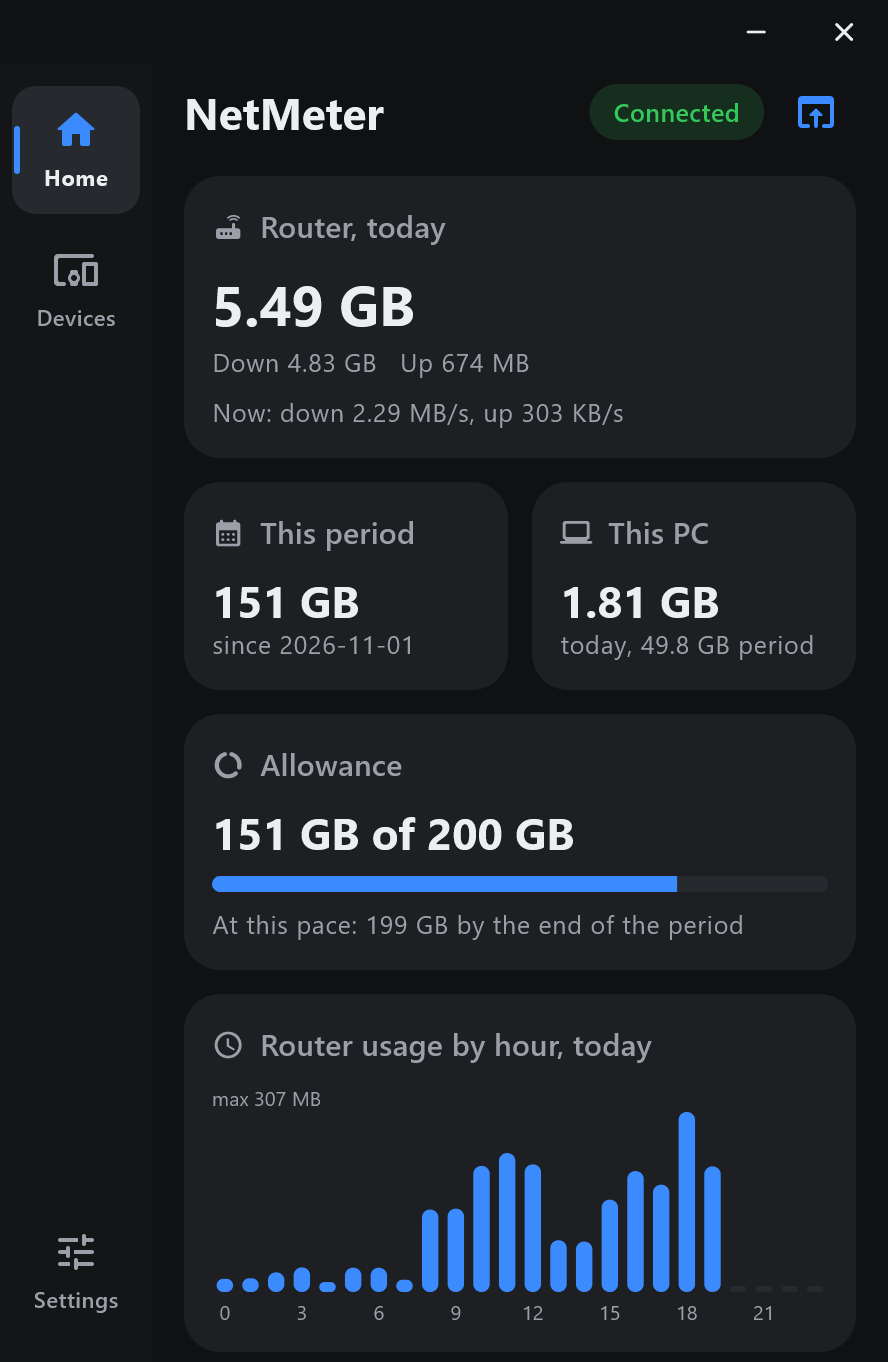
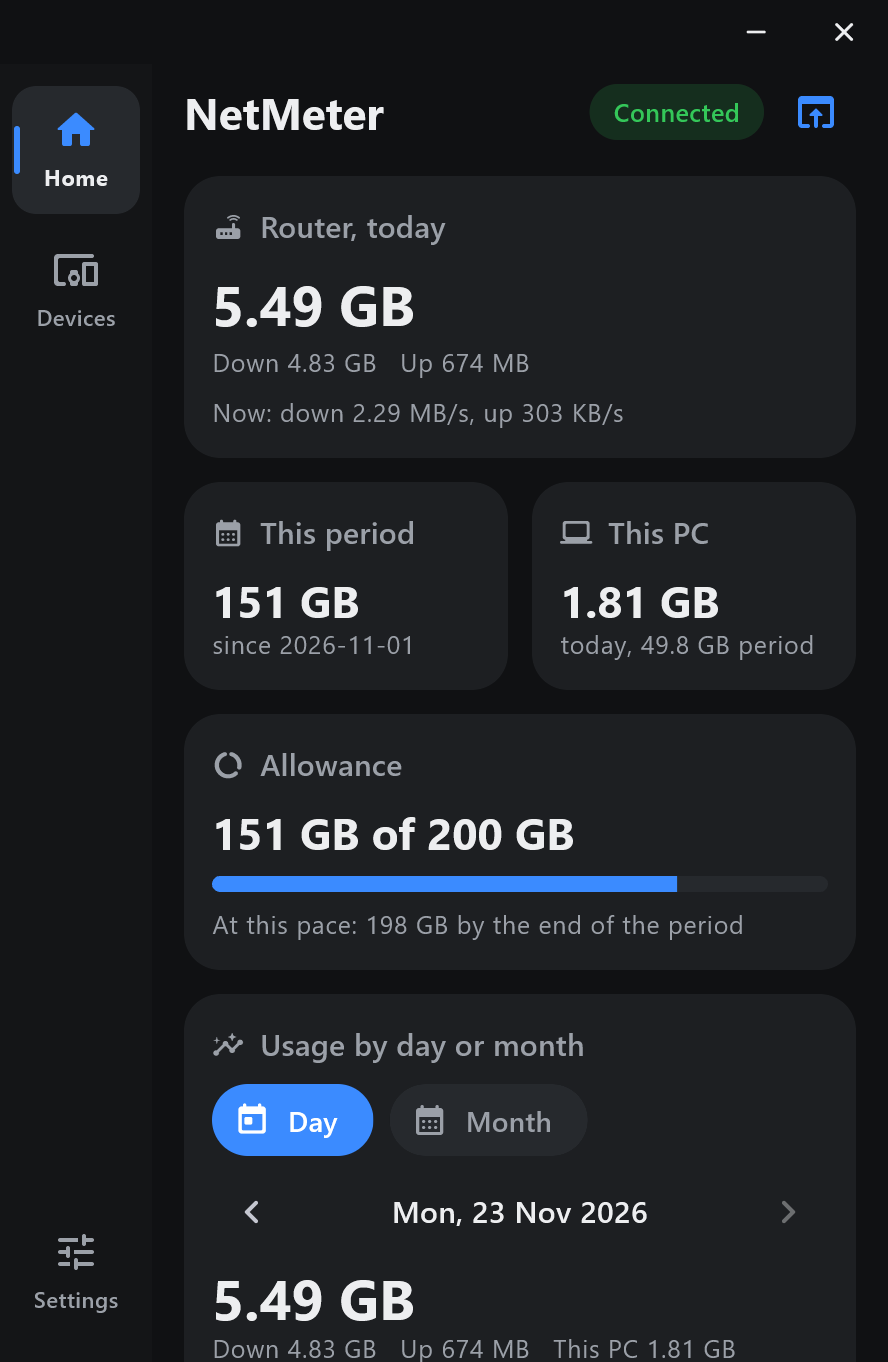
NetMeter 0.3.1: day and month usage explorer
- Pick a day or a month (billing period) with arrows: totals, hourly or daily bars,
  most active devices; in the app and in the browser dashboard (/api/usage)
- Remove the fixed "by hour, today" card in favour of the explorer

Changed region(s): [[0.2128, 0.7401, 0.8209, 1.0]]

diff --git a/lib/ui/usage_explorer.dart b/lib/ui/usage_explorer.dart
@@ -1,0 +1,100 @@
+import 'package:flutter/material.dart';
+
+import '../core/engine.dart';
+import '../core/engine_tools.dart';
+import 'theme.dart';
+import 'widgets.dart';
+
+/// Pick a day or a month (billing period) and see its usage: totals, a chart and the most active devices.
+class UsageExplorer extends StatefulWidget {
+  const UsageExplorer({super.key, required this.engine});
+  final Engine engine;
+
+  @override
+  State<UsageExplorer> createState() => _UsageExplorerState();
+}
+
+class _UsageExplorerState extends State<UsageExplorer> {
+  bool _month = false;
+  int _offset = 0; // 0 = today or this period, -1 = the one before, ...
+
+  @override
+  Widget build(BuildContext context) {
+    final text = Theme.of(context).textTheme;
+    final v = widget.engine.usageView(month: _month, offset: _offset);
+    final bars = (v['bars'] as List).cast<Map<String, dynamic>>();
+    final top = (v['top'] as List).cast<Map<String, dynamic>>();
+    final topIsBytes = v['topIsBytes'] as bool;
+    final maxTop = top.isEmpty ? 1 : (top.first['value'] as int);
+    return InfoCard(
+      title: 'Usage by day or month',
+      icon: Icons.insights_rounded,
+      child: Column(crossAxisAlignment: CrossAxisAlignment.start, children: [
+        Segmented<bool>(
+          value: _month,
+          onChanged: (m) => setState(() {
+            _month = m;
+            _offset = 0;
+          }),
+          options: const [(false, 'Day', Icons.today_rounded), (true, 'Month', Icons.calendar_month_rounded)],
+        ),
+        const SizedBox(height: 8),
+        Row(children: [
+          IconButton(onPressed: v['older'] == true ? () => setState(() => _offset--) : null, icon: const Icon(Icons.chevron_left_rounded)),
+          Expanded(child: Text(v['title'] as String, textAlign: TextAlign.center, style: text.titleMedium)),
+          IconButton(onPressed: _offset < 0 ? () => setState(() => _offset++) : null, icon: const Icon(Icons.chevron_right_rounded)),
+        ]),
+        const SizedBox(height: 4),
+        Text(formatBytes((v['down'] as int) + (v['up'] as int)), style: text.headlineMedium),
+        Text('Down ${formatBytes(v['down'] as int)}   Up ${formatBytes(v['up'] as int)}   This PC ${formatBytes(v['pc'] as int)}', style: text.bodySmall),
+        const SizedBox(height: 12),
+        SizedBox(height: 120, child: CustomPaint(painter: _Bars(bars), size: Size.infinite)),
+        if (top.isNotEmpty) ...[
+          const SizedBox(height: 12),
+          Text(topIsBytes ? 'Heaviest devices' : 'Most active devices (connection time)', style: text.bodySmall),
+          const SizedBox(height: 4),
+          for (final t in top)
+            Padding(
+              padding: const EdgeInsets.symmetric(vertical: 3),
+              child: Row(children: [
+                SizedBox(width: 110, child: Text(t['name'] as String, style: text.bodyMedium, maxLines: 1, overflow: TextOverflow.ellipsis)),
+                Expanded(child: MeterBar(fraction: (t['value'] as int) / maxTop)),
+                SizedBox(width: 64, child: Text(topIsBytes ? formatBytes(t['value'] as int) : formatSpan(t['value'] as int), textAlign: TextAlign.end, style: text.bodySmall)),
+              ]),
+            ),
+        ],
+      ]),
+    );
+  }
+}
+
+class _Bars extends CustomPainter {
+  _Bars(this.bars);
+  final List<Map<String, dynamic>> bars;
+
+  @override
+  void paint(Canvas canvas, Size size) {
+    if (bars.isEmpty) return;
+    final maxV = bars.fold<int>(1, (m, e) => (e['bytes'] as int) > m ? e['bytes'] as int : m);
+    const labelH = 16.0;
+    final chartH = size.height - labelH;
+    final slot = size.width / bars.length;
+    final bar = Paint()..color = Palette.accent;
+    final dim = Paint()..color = Palette.cardHigh;
+    final every = bars.length > 24 ? 5 : 3;
+    for (var i = 0; i < bars.length; i++) {
+      final v = bars[i]['bytes'] as int;
+      final h = v == 0 ? 3.0 : (v / maxV * (chartH - 14)).clamp(3.0, chartH);
+      canvas.drawRRect(RRect.fromRectAndRadius(Rect.fromLTWH(i * slot + slot * 0.15, chartH - h, slot * 0.7, h), const Radius.circular(3)), v == 0 ? dim : bar);
+      if (i % every == 0) {
+        final tp = TextPainter(text: TextSpan(text: bars[i]['label'] as String, style: const TextStyle(color: Palette.muted, fontSize: 10)), textDirection: TextDirection.ltr)..layout();
+        tp.paint(canvas, Offset(i * slot + (slot - tp.width) / 2, chartH + 3));
+      }
+    }
+    final top = TextPainter(text: TextSpan(text: 'max ${formatBytes(maxV)}', style: const TextStyle(color: Palette.muted, fontSize: 10)), textDirection: TextDirection.ltr)..layout();
+    top.paint(canvas, Offset.zero);
+  }
+
+  @override
+  bool shouldRepaint(covariant _Bars old) => true;
+}

diff --git a/assets/dashboard.html b/assets/dashboard.html
@@ -37,6 +37,8 @@ button{cursor:pointer;background:var(--accent);color:#fff;font-weight:600;border
 .dot{display:inline-block;width:9px;height:9px;border-radius:50%;background:var(--muted);margin-right:6px}
 .dot.on{background:var(--ok)}
 .note{color:var(--muted);font-size:12.5px;margin-top:10px}
+.nav{display:flex;align-items:center;gap:8px;margin-bottom:8px;flex-wrap:wrap}.nav .sp{flex:1}.nav b{min-width:150px;text-align:center}
+.seg{background:var(--high);color:var(--muted)}.seg.on{background:var(--accent);color:#fff}.arrow{background:var(--high);color:var(--text);font-size:18px;padding:2px 14px}.arrow:disabled{opacity:.35;cursor:default}
 @media (max-width:640px){.row .n{width:100px}.hide-s{display:none}}
 </style>
 </head>
@@ -49,6 +51,13 @@ button{cursor:pointer;background:var(--accent);color:#fff;font-weight:600;border
   <div class="card"><h2>This period</h2><div class="big" id="periodV">–</div><div class="sub" id="periodSub"></div></div>
   <div class="card"><h2>This PC</h2><div class="big" id="pc">–</div><div class="sub" id="pcSub"></div></div>
   <div class="card" id="quotaCard"><h2>Allowance</h2><div class="big" id="quota">–</div><div class="bar"><i id="quotaBar" style="width:0"></i></div><div class="sub" id="quotaSub"></div></div>
+</div>
+<div class="card wide" style="margin-bottom:12px">
+  <h2>Usage by day or month</h2>
+  <div class="nav"><button class="seg on" id="mDay">Day</button><button class="seg" id="mMonth">Month</button><span class="sp"></span><button class="arrow" id="prev">&lsaquo;</button><b id="uTitle"></b><button class="arrow" id="next">&rsaquo;</button></div>
+  <div class="big" id="uTotal">–</div><div class="sub" id="uSub"></div>
+  <canvas id="uBars"></canvas>
+  <div id="uTop"></div>
 </div>
 <div class="grid">
   <div class="card"><h2>Router usage by hour, today</h2><canvas id="hourly"></canvas></div>
@@ -81,7 +90,18 @@ function bars(cv,vals,labels,fmt){
     const x=i*slot+slot*.15,bw=slot*.7;g.beginPath();g.roundRect?g.roundRect(x,14+ch-bh,bw,bh,3):g.rect(x,14+ch-bh,bw,bh);g.fill();
     if(labels[i]!=null){g.fillStyle=css('--muted');g.textAlign='center';g.fillText(labels[i],x+bw/2,h-3);g.textAlign='left'}});
 }
-let state=null,editing=false;
+let state=null,editing=false,uMode='day',uOffset=0;
+async function loadUsage(){
+  const r=await fetch('/api/usage?mode='+uMode+'&offset='+uOffset,{cache:'no-store'});const u=await r.json();
+  $('uTitle').textContent=u.title;$('prev').disabled=!u.older;$('next').disabled=uOffset>=0;
+  $('uTotal').textContent=bytes(u.down+u.up);$('uSub').textContent='Down '+bytes(u.down)+'   Up '+bytes(u.up)+'   This PC '+bytes(u.pc);
+  const lab=u.bars.map((b,i)=>i%(u.bars.length>24?5:3)==0?b.label:null);bars($('uBars'),u.bars.map(b=>b.bytes),lab,bytes);
+  const mx=Math.max(1,...u.top.map(t=>t.value));
+  $('uTop').innerHTML=u.top.map(t=>'<div class="row"><span class="n">'+esc(t.name)+'</span><span class="b"><i style="width:'+(t.value/mx*100)+'%"></i></span><span class="v">'+(u.topIsBytes?bytes(t.value):span(t.value))+'</span></div>').join('');
+}
+function setMode(m){uMode=m;uOffset=0;$('mDay').classList.toggle('on',m=='day');$('mMonth').classList.toggle('on',m=='month');loadUsage()}
+$('mDay').onclick=()=>setMode('day');$('mMonth').onclick=()=>setMode('month');
+$('prev').onclick=()=>{uOffset--;loadUsage()};$('next').onclick=()=>{if(uOffset<0){uOffset++;loadUsage()}};
 function render(s){
   state=s;const st=$('status');st.textContent={connected:'Connected',connecting:'Connecting',blocked:'Paused',offline:'Router unreachable',error:'Error',setup:'Set up needed'}[s.status]||s.status;
   st.className='pill '+({connected:'ok',connecting:'warn',offline:'warn',blocked:'bad',error:'bad'}[s.status]||'warn');
@@ -124,7 +144,7 @@ $('devs').addEventListener('change',async e=>{const tr=e.target.closest('tr');if
   editing=false;render(await r.json())});
 $('export').onclick=async()=>{const r=await fetch('/api/export',{method:'POST',headers:{'X-NetMeter':'1'}});const j=await r.json();alert('CSV files saved to '+j.folder)};
 window.addEventListener('resize',()=>state&&render(state));
-load();setInterval(load,5000);
+load();loadUsage();setInterval(()=>{load();loadUsage()},5000);
 </script>
 </body>
 </html>

diff --git a/lib/core/engine_tools.dart b/lib/core/engine_tools.dart
@@ -59,6 +59,76 @@ extension EngineTools on Engine {
     return out;
   }
 
+  /// What the usage explorer shows: one day (bars per hour) or one billing period (bars per day).
+  /// [offset] 0 is today / the current period, -1 the one before, and so on.
+  Map<String, dynamic> usageView({required bool month, required int offset}) {
+    const months = ['January', 'February', 'March', 'April', 'May', 'June', 'July', 'August', 'September', 'October', 'November', 'December'];
+    const short = ['Jan', 'Feb', 'Mar', 'Apr', 'May', 'Jun', 'Jul', 'Aug', 'Sep', 'Oct', 'Nov', 'Dec'];
+    const weekdays = ['Mon', 'Tue', 'Wed', 'Thu', 'Fri', 'Sat', 'Sun'];
+    if (offset > 0) offset = 0;
+    var down = 0, up = 0, pc = 0;
+    final devSecs = <String, int>{}, devBytes = <String, int>{};
+    void addDay(DayStat d) {
+      down += d.wanRx;
+      up += d.wanTx;
+      pc += d.pcRx + d.pcTx;
+      d.dev.forEach((mac, v) {
+        devSecs[mac] = (devSecs[mac] ?? 0) + v.secs;
+        devBytes[mac] = (devBytes[mac] ?? 0) + v.rx + v.tx;
+      });
+    }
+
+    final bars = <Map<String, dynamic>>[];
+    late final String title;
+    late final DateTime from;
+    if (!month) {
+      final t = today;
+      from = DateTime(t.year, t.month, t.day + offset);
+      final d = store.days[dayKey(from)];
+      if (d != null) addDay(d);
+      title = '${weekdays[from.weekday - 1]}, ${from.day} ${short[from.month - 1]} ${from.year}';
+      for (var h = 0; h < 24; h++) {
+        bars.add({'label': '$h', 'bytes': d?.hourly[h] ?? 0});
+      }
+    } else {
+      final reset = config.resetDay;
+      final cur = periodStart;
+      DateTime startOf(int shift) {
+        final first = DateTime(cur.year, cur.month + shift, 1);
+        final last = DateTime(first.year, first.month + 1, 0).day;
+        return DateTime(first.year, first.month, reset > last ? last : reset);
+      }
+
+      from = startOf(offset);
+      final end = startOf(offset + 1);
+      for (var t = from; t.isBefore(end) && !t.isAfter(today); t = DateTime(t.year, t.month, t.day + 1)) {
+        final d = store.days[dayKey(t)];
+        if (d != null) addDay(d);
+        bars.add({'label': '${t.day}', 'bytes': d == null ? 0 : d.wanRx + d.wanTx});
+      }
+      title = reset == 1
+          ? '${months[from.month - 1]} ${from.year}'
+          : '${short[from.month - 1]} ${from.day} to ${short[end.month - 1]} ${end.subtract(const Duration(days: 1)).day}, ${end.year}';
+    }
+    final byBytes = perDeviceUsage;
+    final ranked = (byBytes ? devBytes : devSecs).entries.where((e) => e.value > 0).toList()..sort((a, b) => b.value.compareTo(a.value));
+    final fromKey = dayKey(from);
+    return {
+      'title': title,
+      'kind': month ? 'days' : 'hours',
+      'offset': offset,
+      'older': store.days.keys.any((k) => k.compareTo(fromKey) < 0),
+      'down': down,
+      'up': up,
+      'pc': pc,
+      'bars': bars,
+      'topIsBytes': byBytes,
+      'top': [
+        for (final e in ranked.take(6)) {'name': store.devices[e.key]?.display ?? e.key, 'value': e.value},
+      ],
+    };
+  }
+
   /// Router bytes for each hour of today.
   List<int> get hourlyToday => store.days[dayKey(DateTime.now())]?.hourly ?? List.filled(24, 0);
 

diff --git a/lib/ui/home_page.dart b/lib/ui/home_page.dart
@@ -4,6 +4,7 @@ import '../core/engine.dart';
 import '../core/engine_tools.dart';
 import '../core/web_server.dart';
 import 'theme.dart';
+import 'usage_explorer.dart';
 import 'widgets.dart';
 
 /// Overview: connection state, router usage today and this period, this PC, and a 14-day chart.
@@ -86,11 +87,7 @@ class HomePage extends StatelessWidget {
                 _quotaCard(context),
                 const SizedBox(height: 12),
               ],
-              InfoCard(
-                title: 'Router usage by hour, today',
-                icon: Icons.schedule_rounded,
-                child: SizedBox(height: 120, child: CustomPaint(painter: _BarsPainter([for (var h = 0; h < 24; h++) (DateTime(2000, 1, 1, h), engine.hourlyToday[h])], hours: true), size: Size.infinite)),
-              ),
+              UsageExplorer(engine: engine),
               const SizedBox(height: 12),
               InfoCard(
                 title: 'Router usage by month',
@@ -172,9 +169,9 @@ const _monthNames = ['Jan', 'Feb', 'Mar', 'Apr', 'May', 'Jun', 'Jul', 'Aug', 'Se
 String _date(DateTime d) => '${d.year}-${d.month.toString().padLeft(2, '0')}-${d.day.toString().padLeft(2, '0')}';
 
 class _BarsPainter extends CustomPainter {
-  _BarsPainter(this.data, {this.hours = false, this.months = false});
+  _BarsPainter(this.data, {this.months = false});
   final List<(DateTime, int)> data;
-  final bool hours, months;
+  final bool months;
 
   @override
   void paint(Canvas canvas, Size size) {
@@ -188,9 +185,9 @@ class _BarsPainter extends CustomPainter {
       final h = data[i].$2 == 0 ? 3.0 : (data[i].$2 / maxV * (chartH - 14)).clamp(3.0, chartH);
       final rect = RRect.fromRectAndRadius(Rect.fromLTWH(i * slot + slot * 0.18, chartH - h, slot * 0.64, h), const Radius.circular(4));
       canvas.drawRRect(rect, data[i].$2 == 0 ? dim : bar);
-      if (months || (hours ? i % 3 == 0 : (i == data.length - 1 || i % 3 == 0))) {
+      if (months || i == data.length - 1 || i % 3 == 0) {
         final tp = TextPainter(
-          text: TextSpan(text: months ? _monthNames[data[i].$1.month - 1] : (hours ? '${data[i].$1.hour}' : '${data[i].$1.day}'), style: const TextStyle(color: Palette.muted, fontSize: 10)),
+          text: TextSpan(text: months ? _monthNames[data[i].$1.month - 1] : '${data[i].$1.day}', style: const TextStyle(color: Palette.muted, fontSize: 10)),
           textDirection: TextDirection.ltr,
         )..layout();
         tp.paint(canvas, Offset(i * slot + (slot - tp.width) / 2, chartH + 3));

diff --git a/lib/core/web_server.dart b/lib/core/web_server.dart
@@ -58,6 +58,11 @@ class WebServer {
       if (host != '127.0.0.1' && host != 'localhost') return _send(r.response, 403, 'text/plain', 'forbidden');
       final path = r.uri.path;
       if (r.method == 'GET' && path == '/') return _send(r.response, 200, 'text/html', _html);
+      if (r.method == 'GET' && path == '/api/usage') {
+        final month = r.uri.queryParameters['mode'] == 'month';
+        final offset = int.tryParse(r.uri.queryParameters['offset'] ?? '') ?? 0;
+        return _send(r.response, 200, 'application/json', jsonEncode(engine.usageView(month: month, offset: offset)));
+      }
       if (r.method == 'GET' && path == '/api/state') return _send(r.response, 200, 'application/json', jsonEncode(engine.stateJson()));
       if (r.method == 'POST' && r.headers.value('x-netmeter') == '1') {
         if (path == '/api/device') {

diff --git a/lib/main.dart b/lib/main.dart
@@ -15,7 +15,7 @@ import 'core/web_server.dart';
 import 'ui/shell.dart';
 import 'ui/theme.dart';
 
-const appVersion = '0.3.0';
+const appVersion = '0.3.1';
 const _instancePort = 47853; // single-instance socket (not shared with any other app)
 
 Future<void> main(List<String> args) async {

diff --git a/README.md b/README.md
@@ -15,8 +15,10 @@ Everything stays on your PC. Nothing is sent anywhere.
 
 ## What it shows
 
-- **Router usage:** today, this billing period, live speed, usage by hour, and the last 14 or 30 days. The numbers come
-  from the router itself, so they are exact.
+- **Router usage:** today, this billing period, live speed and usage by month. The numbers come from the router itself,
+  so they are exact.
+- **Day and month filter:** step back and forward through any day (bars per hour) or any month (bars per day) and see
+  its totals, this PC and the most active devices.
 - **This PC:** how much this computer used, measured from the Windows network adapter counters.
 - **Allowance and forecast:** set a monthly allowance in GB, see a bar, a forecast for the end of the period, and get
   alerts at 80, 90 and 100 percent.
